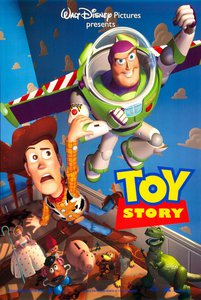
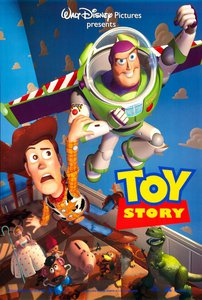
updated default image size

diff --git a/app/models/movie.rb b/app/models/movie.rb
@@ -1,6 +1,6 @@
 class Movie < ApplicationRecord
   belongs_to :user
 
-  has_attached_file :image, styles: { medium: "400x600#" }, default_url: "/images/:style/missing.png"
+  has_attached_file :image, styles: { medium: "202x300!" }, default_url: "/images/:style/missing.png"
   validates_attachment_content_type :image, content_type: /\Aimage\/.*\z/
 end
